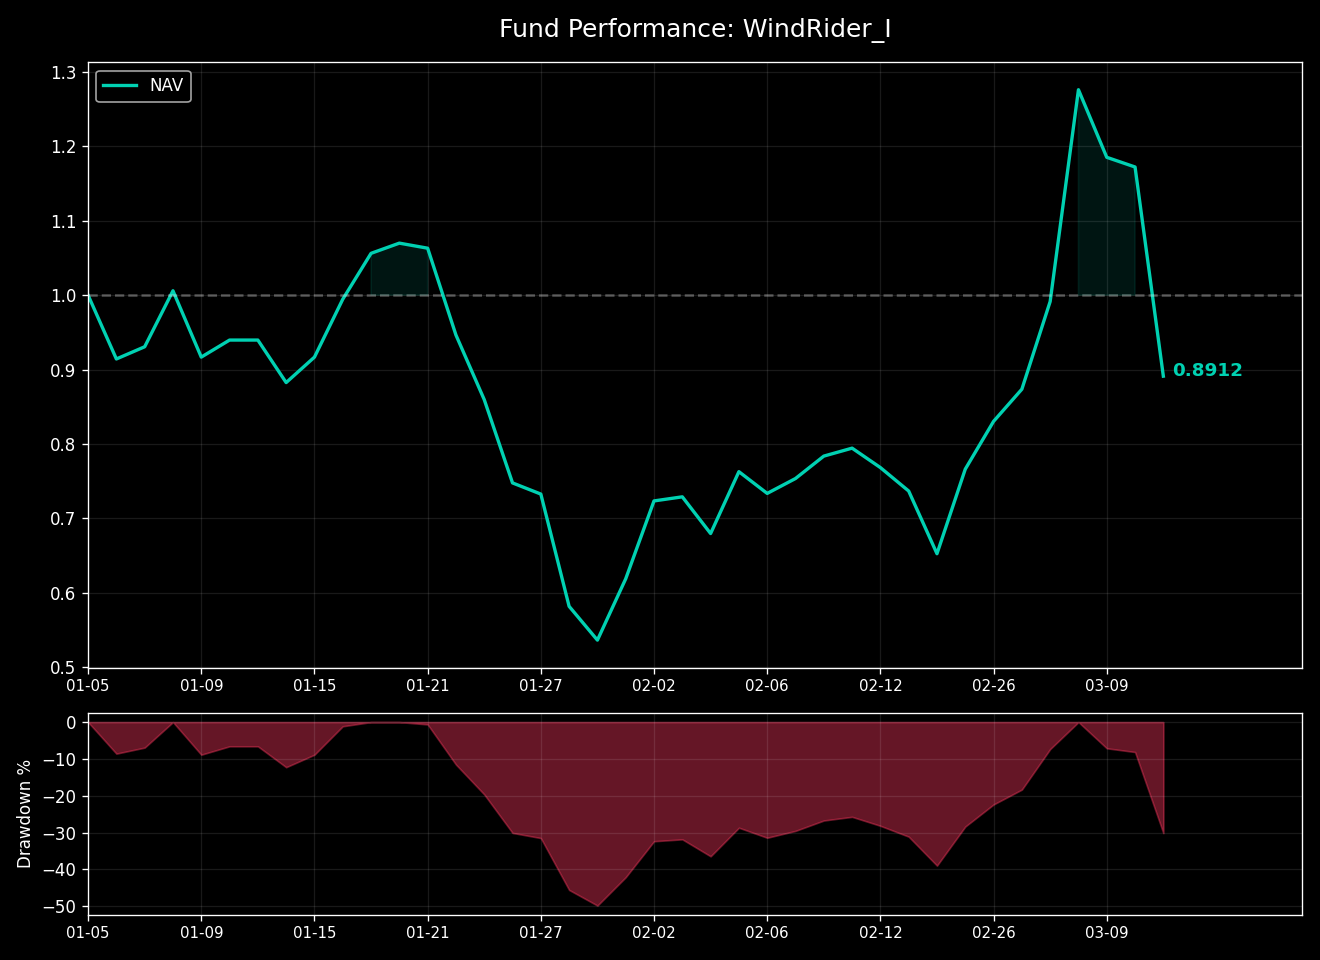
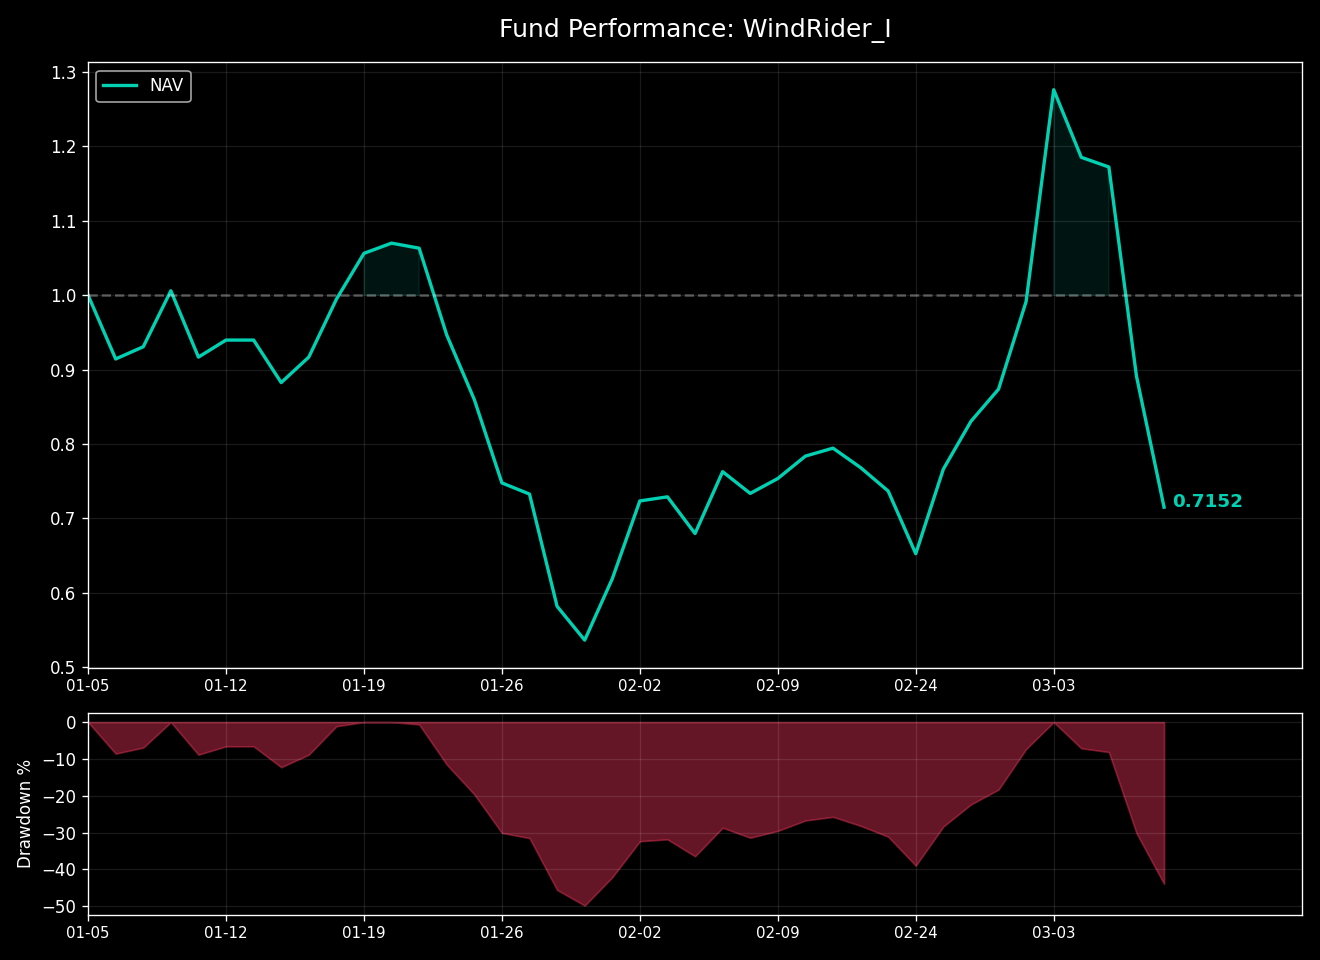
Updated Hugo site content

diff --git a/public/investment/position/index.html b/public/investment/position/index.html
@@ -66,8 +66,8 @@
   <meta property="og:locale" content="zh-cn">
   <meta property="og:type" content="article">
     <meta property="article:section" content="investment">
-    <meta property="article:published_time" content="2026-03-09T21:50:57+08:00">
-    <meta property="article:modified_time" content="2026-03-09T21:50:57+08:00">
+    <meta property="article:published_time" content="2026-03-12T15:10:04+08:00">
+    <meta property="article:modified_time" content="2026-03-12T15:10:04+08:00">
 <meta name="twitter:card" content="summary">
 <meta name="twitter:title" content="如山-股票组合持仓 /// Position">
 <meta name="twitter:description" content="如山股票组合持仓">
@@ -103,11 +103,11 @@
   "keywords": [
     
   ],
-  "articleBody": " 风舵股票组合 /// 每日持仓 WindRider Equity Portfolio 净值简报 (截至: 2026-03-09)\n指数代码： WDR.EQ 成立日期： 2025-11-19 最新净值： 1.0842 今日涨跌： -0.93% ===========================\n核心表现 累计收益： +8.42% 年化收益： +30.77% 最大回撤： -9.53% 基准点位： 4615.46 (CSI300) 策略状态： 已运行 111 天 持仓明细 股票名称 成本价 现价 盈亏 占比 先导智能 300450 52.17 49.65 -4.83% 99.64% 收益率对比曲线 声明：本页面数据为实盘记录，持仓数据每日收盘后更新。\n数据仅供技术交流，不构成投资建议。\n",
+  "articleBody": " 风舵股票组合 /// 每日持仓 WindRider Equity Portfolio 净值简报 (截至: 2026-03-11)\n指数代码： WDR.EQ 成立日期： 2025-11-19 最新净值： 1.1138 今日涨跌： +0.41% ===========================\n核心表现 累计收益： +11.38% 年化收益： +42.08% 最大回撤： -9.53% 基准点位： 4674.76 (CSI300) 策略状态： 已运行 113 天 持仓明细 股票名称 成本价 现价 盈亏 占比 先导智能 300450 52.17 52.15 -0.03% 98.18% 收益率对比曲线 声明：本页面数据为实盘记录，持仓数据每日收盘后更新。\n数据仅供技术交流，不构成投资建议。\n",
   "wordCount" : "47",
   "inLanguage": "zh-cn",
-  "datePublished": "2026-03-09T21:50:57+08:00",
-  "dateModified": "2026-03-09T21:50:57+08:00",
+  "datePublished": "2026-03-12T15:10:04+08:00",
+  "dateModified": "2026-03-12T15:10:04+08:00",
   "mainEntityOfPage": {
     "@type": "WebPage",
     "@id": "https://hankou.com/investment/position/"
@@ -196,7 +196,7 @@
     <div class="post-description">
       如山股票组合持仓
     </div>
-    <div class="post-meta"><span title='2026-03-09 21:50:57 +0800 CST'>March 9, 2026</span>
+    <div class="post-meta"><span title='2026-03-12 15:10:04 +0800 CST'>March 12, 2026</span>
 
 </div>
   </header> 
@@ -205,7 +205,7 @@
 </style>
 <h3 id="风舵股票组合--每日持仓">风舵股票组合   <span style="color: #E63946; font-weight: bold;">/</span><span style="color: #F1A73E; font-weight: bold;">/</span><span style="color: #000091; font-weight: bold;">/</span>   每日持仓<a hidden class="anchor" aria-hidden="true" href="#风舵股票组合--每日持仓">#</a></h3>
 <p>WindRider Equity Portfolio <br>
-净值简报 <small>(截至: 2026-03-09)</small></p>
+净值简报 <small>(截至: 2026-03-11)</small></p>
 <table>
   <thead>
       <tr>
@@ -224,11 +224,11 @@
       </tr>
       <tr>
           <td style="text-align: left"><strong>最新净值：</strong></td>
-          <td style="text-align: left">1.0842</td>
+          <td style="text-align: left">1.1138</td>
       </tr>
       <tr>
           <td style="text-align: left"><strong>今日涨跌：</strong></td>
-          <td style="text-align: left">-0.93%</td>
+          <td style="text-align: left">+0.41%</td>
       </tr>
   </tbody>
 </table>
@@ -243,11 +243,11 @@
   <tbody>
       <tr>
           <td style="text-align: left"><strong>累计收益：</strong></td>
-          <td style="text-align: left">+8.42%</td>
+          <td style="text-align: left">+11.38%</td>
       </tr>
       <tr>
           <td style="text-align: left"><strong>年化收益：</strong></td>
-          <td style="text-align: left">+30.77%</td>
+          <td style="text-align: left">+42.08%</td>
       </tr>
       <tr>
           <td style="text-align: left"><strong>最大回撤：</strong></td>
@@ -255,11 +255,11 @@
       </tr>
       <tr>
           <td style="text-align: left"><strong>基准点位：</strong></td>
-          <td style="text-align: left">4615.46 (CSI300)</td>
+          <td style="text-align: left">4674.76 (CSI300)</td>
       </tr>
       <tr>
           <td style="text-align: left"><strong>策略状态：</strong></td>
-          <td style="text-align: left">已运行 111 天</td>
+          <td style="text-align: left">已运行 113 天</td>
       </tr>
   </tbody>
 </table>
@@ -279,9 +279,9 @@
       <tr>
           <td style="text-align: left">先导智能 <small>300450</small></td>
           <td style="text-align: left">52.17</td>
-          <td style="text-align: left">49.65</td>
-          <td style="text-align: left"><span style="color:#2A9D8F">-4.83%</span></td>
-          <td style="text-align: left">99.64%</td>
+          <td style="text-align: left">52.15</td>
+          <td style="text-align: left"><span style="color:#2A9D8F">-0.03%</span></td>
+          <td style="text-align: left">98.18%</td>
           <td></td>
       </tr>
   </tbody>

diff --git a/public/investment/windrider-1/index.html b/public/investment/windrider-1/index.html
@@ -66,8 +66,8 @@
   <meta property="og:locale" content="zh-cn">
   <meta property="og:type" content="article">
     <meta property="article:section" content="investment">
-    <meta property="article:published_time" content="2026-03-09T15:15:03+08:00">
-    <meta property="article:modified_time" content="2026-03-09T15:15:03+08:00">
+    <meta property="article:published_time" content="2026-03-12T16:50:17+08:00">
+    <meta property="article:modified_time" content="2026-03-12T16:50:17+08:00">
 <meta name="twitter:card" content="summary">
 <meta name="twitter:title" content="风舵1号 (WindRider I)  /// 指数">
 <meta name="twitter:description" content="商品期货分形摆动策略实盘">
@@ -103,11 +103,11 @@
   "keywords": [
     
   ],
-  "articleBody": " 风舵1号 (WindRider I) /// 指数 商品期货分形摆动策略实盘\n净值简报 (截至: 2026-03-09)\n指数代码： WDR1.CTA 起步日期： 2026-01-05 最新净值： 1.1852 今日涨跌： -7.12% ===========================\n核心指标 累计涨跌： +18.52% 年化收益： +167.62% 最大回撤： -49.85% 卡玛比率： 3.36 策略状态： 已运行 64 天 净值曲线 声明：本页面数据为实盘记录，持仓数据每日收盘后更新。\n数据仅供技术交流，不构成投资建议。\n",
+  "articleBody": " 风舵1号 (WindRider I) /// 指数 商品期货分形摆动策略实盘\n净值简报 (截至: 2026-03-11)\n指数代码： WDR1.CTA 起步日期： 2026-01-05 最新净值： 0.8912 今日涨跌： -23.97% ===========================\n核心指标 累计涨跌： -10.88% 年化收益： -47.63% 最大回撤： -49.85% 卡玛比率： -0.96 策略状态： 已运行 66 天 净值曲线 声明：本页面数据为实盘记录，持仓数据每日收盘后更新。\n数据仅供技术交流，不构成投资建议。\n",
   "wordCount" : "34",
   "inLanguage": "zh-cn",
-  "datePublished": "2026-03-09T15:15:03+08:00",
-  "dateModified": "2026-03-09T15:15:03+08:00",
+  "datePublished": "2026-03-12T16:50:17+08:00",
+  "dateModified": "2026-03-12T16:50:17+08:00",
   "mainEntityOfPage": {
     "@type": "WebPage",
     "@id": "https://hankou.com/investment/windrider-1/"
@@ -196,7 +196,7 @@
     <div class="post-description">
       商品期货分形摆动策略实盘
     </div>
-    <div class="post-meta"><span title='2026-03-09 15:15:03 +0800 CST'>March 9, 2026</span>
+    <div class="post-meta"><span title='2026-03-12 16:50:17 +0800 CST'>March 12, 2026</span>
 
 </div>
   </header> 
@@ -208,7 +208,7 @@
 </style>
 <h3 id="风舵1号-windrider-i--指数">风舵1号 (WindRider I)   <span style="color: #E63946; font-weight: bold;">/</span><span style="color: #F1A73E; font-weight: bold;">/</span><span style="color: #000091; font-weight: bold;">/</span>   指数<a hidden class="anchor" aria-hidden="true" href="#风舵1号-windrider-i--指数">#</a></h3>
 <p>商品期货分形摆动策略实盘<br>
-净值简报 <small>(截至: 2026-03-09)</small></p>
+净值简报 <small>(截至: 2026-03-11)</small></p>
 <table>
   <thead>
       <tr>
@@ -227,11 +227,11 @@
       </tr>
       <tr>
           <td style="text-align: left"><strong>最新净值：</strong></td>
-          <td style="text-align: left">1.1852</td>
+          <td style="text-align: left">0.8912</td>
       </tr>
       <tr>
           <td style="text-align: left"><strong>今日涨跌：</strong></td>
-          <td style="text-align: left">-7.12%</td>
+          <td style="text-align: left">-23.97%</td>
       </tr>
   </tbody>
 </table>
@@ -246,11 +246,11 @@
   <tbody>
       <tr>
           <td style="text-align: left"><strong>累计涨跌：</strong></td>
-          <td style="text-align: left">+18.52%</td>
+          <td style="text-align: left">-10.88%</td>
       </tr>
       <tr>
           <td style="text-align: left"><strong>年化收益：</strong></td>
-          <td style="text-align: left">+167.62%</td>
+          <td style="text-align: left">-47.63%</td>
       </tr>
       <tr>
           <td style="text-align: left"><strong>最大回撤：</strong></td>
@@ -258,11 +258,11 @@
       </tr>
       <tr>
           <td style="text-align: left"><strong>卡玛比率：</strong></td>
-          <td style="text-align: left">3.36</td>
+          <td style="text-align: left">-0.96</td>
       </tr>
       <tr>
           <td style="text-align: left"><strong>策略状态：</strong></td>
-          <td style="text-align: left">已运行 64 天</td>
+          <td style="text-align: left">已运行 66 天</td>
       </tr>
   </tbody>
 </table>

diff --git a/public/investment/index.html b/public/investment/index.html
@@ -151,26 +151,26 @@
 
 <article class="post-entry"> 
   <header class="entry-header">
-    <h2 class="entry-hint-parent">如山-股票组合持仓 /// Position
-    </h2>
-  </header>
-  <div class="entry-content">
-    <p>主动管理型股票组合。对标沪深300指数，采用基本面选股策略。</p>
-  </div>
-  <footer class="entry-footer"><span title='2026-03-09 21:50:57 +0800 CST'>March 9, 2026</span></footer>
-  <a class="entry-link" aria-label="post link to 如山-股票组合持仓 /// Position" href="https://hankou.com/investment/position/"></a>
-</article>
-
-<article class="post-entry"> 
-  <header class="entry-header">
     <h2 class="entry-hint-parent">风舵1号 (WindRider I)  /// 指数
     </h2>
   </header>
   <div class="entry-content">
     <p>商品期货分形摆动策略，实盘最新净值与核心风险指标。</p>
   </div>
-  <footer class="entry-footer"><span title='2026-03-09 15:15:03 +0800 CST'>March 9, 2026</span></footer>
+  <footer class="entry-footer"><span title='2026-03-12 16:50:17 +0800 CST'>March 12, 2026</span></footer>
   <a class="entry-link" aria-label="post link to 风舵1号 (WindRider I)  /// 指数" href="https://hankou.com/investment/windrider-1/"></a>
+</article>
+
+<article class="post-entry"> 
+  <header class="entry-header">
+    <h2 class="entry-hint-parent">如山-股票组合持仓 /// Position
+    </h2>
+  </header>
+  <div class="entry-content">
+    <p>主动管理型股票组合。对标沪深300指数，采用基本面选股策略。</p>
+  </div>
+  <footer class="entry-footer"><span title='2026-03-12 15:10:04 +0800 CST'>March 12, 2026</span></footer>
+  <a class="entry-link" aria-label="post link to 如山-股票组合持仓 /// Position" href="https://hankou.com/investment/position/"></a>
 </article>
     </main>
     

diff --git a/content/investment/windrider-1.md b/content/investment/windrider-1.md
@@ -1,8 +1,8 @@
 +++
 title = "风舵1号 (WindRider I)  /// 指数"
 summary = "商品期货分形摆动策略，实盘最新净值与核心风险指标。"
-date = 2026-03-12T16:50:17+08:00
-lastmod = 2026-03-12T16:50:17+08:00
+date = 2026-03-12T16:52:05+08:00
+lastmod = 2026-03-12T16:52:05+08:00
 draft = false
 description = "商品期货分形摆动策略实盘"
 +++
@@ -15,24 +15,24 @@ description = "商品期货分形摆动策略实盘"
 
 ### 风舵1号 (WindRider I) &nbsp;&nbsp;<span style="color: #E63946; font-weight: bold;">/</span><span style="color: #F1A73E; font-weight: bold;">/</span><span style="color: #000091; font-weight: bold;">/</span>&nbsp;&nbsp; 指数
 商品期货分形摆动策略实盘<br>
-净值简报 <small>(截至: 2026-03-11)</small>
+净值简报 <small>(截至: 2026-03-12)</small>
 
 |  |  |
 | :--- | :--- |
 | **指数代码：** | WDR1.CTA |
 | **起步日期：** | 2026-01-05 |
-| **最新净值：** | 0.8912 |
-| **今日涨跌：** | -23.97% |
+| **最新净值：** | 0.7152 |
+| **今日涨跌：** | -19.75% |
 
 ===========================
 
 | 核心指标 | |
 | :--- | :--- |
-| **累计涨跌：** | -10.88% |
-| **年化收益：** | -47.63% |
+| **累计涨跌：** | -28.48% |
+| **年化收益：** | -84.33% |
 | **最大回撤：** | -49.85% |
-| **卡玛比率：** | -0.96 |
-| **策略状态：** | 已运行 66 天 |
+| **卡玛比率：** | -1.69 |
+| **策略状态：** | 已运行 67 天 |
 
 ### 净值曲线
 ![风舵1号净值曲线](/images/investment/windrider_nav.png)
